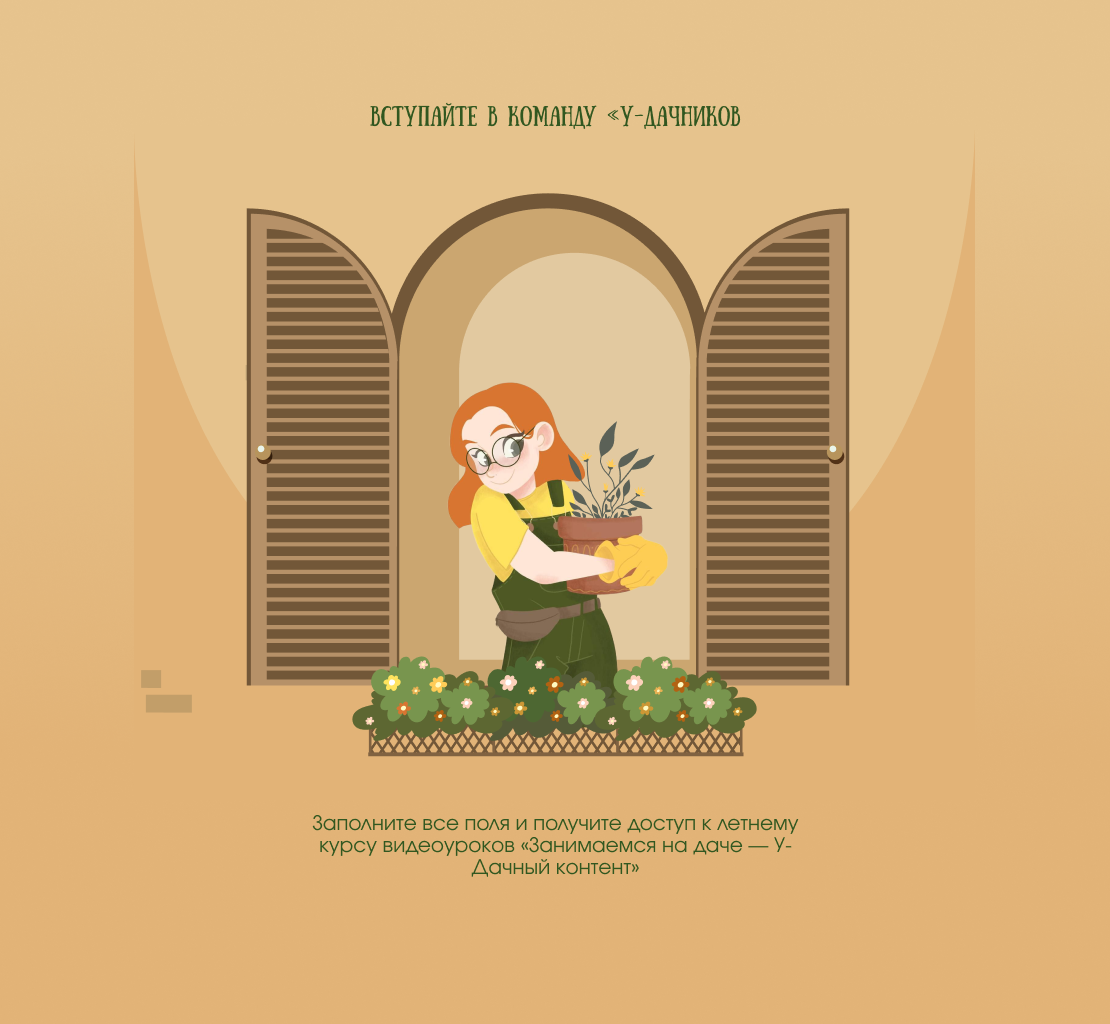
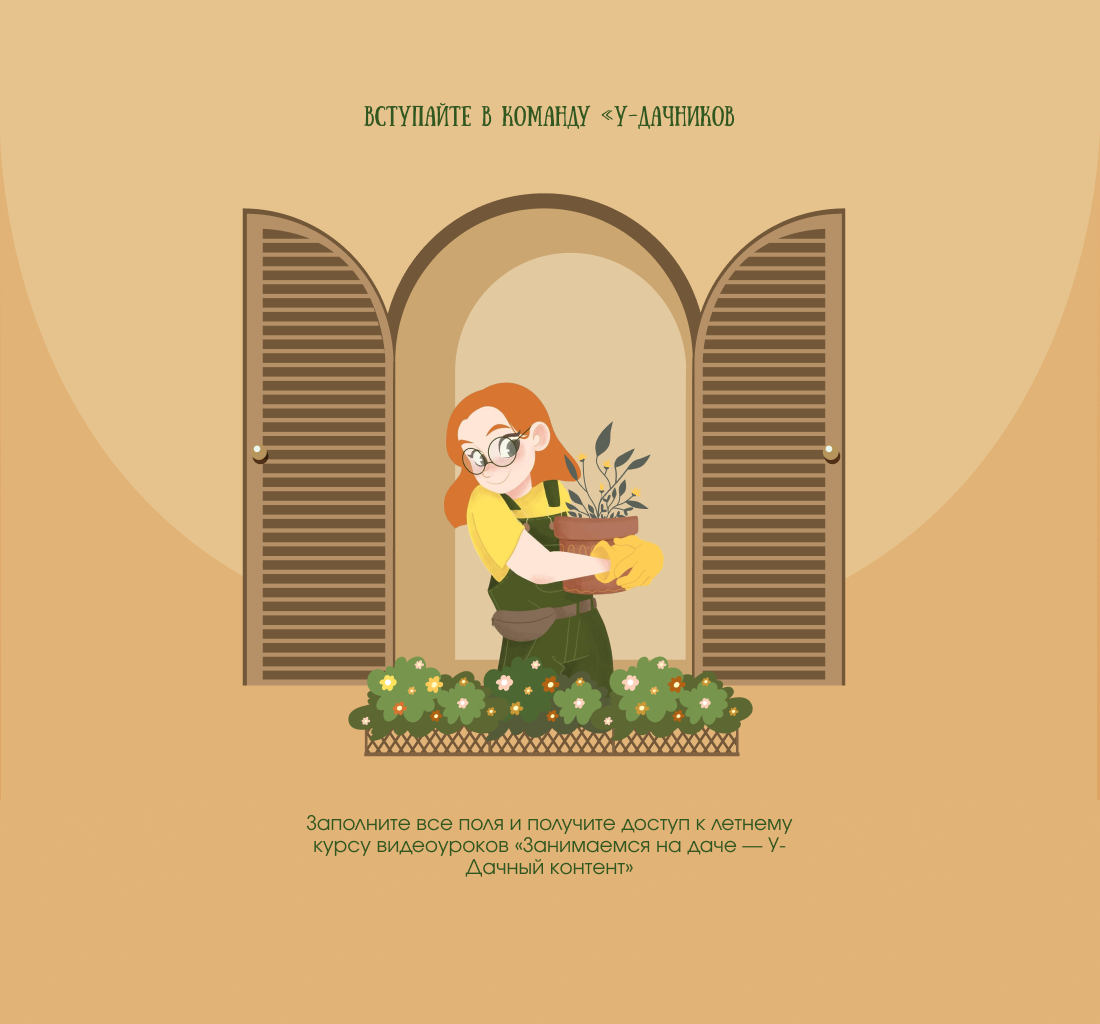
Minor UI Tweaks

diff --git a/src/components/AppAuthDialog.vue b/src/components/AppAuthDialog.vue
@@ -47,7 +47,7 @@ const diagnosis_cipher_options = [
 </script>
 
 <template>
-    <q-dialog ref="dialogRef" persistent maximized transition-show="slide-up" transition-hide="slide-down">
+    <q-dialog ref="dialogRef" persistent maximized>
         <q-card class="bg-uc_light_green reg_wrapper" v-if="showLogin">
             <q-bar style="height: 60px; background-color: transparent;">
                 <q-space />
@@ -113,8 +113,8 @@ const diagnosis_cipher_options = [
         <q-card class="login_wrapper" style="background-color: #EFDFBB;" v-if="!showLogin">
             <q-bar style="height: 60px; background-color: transparent;">
                 <q-space />
-                <q-btn dense flat round icon="close" v-close-popup size="lg" color=" uc_green' : 'white'"
-                    style="border: solid 2px #315720">
+                <q-btn dense flat round icon="close" v-close-popup size="lg" color="uc_green"
+                    style="border: solid 2px #315720;background-color: #EFDFBB;">
                     <q-tooltip class="bg-white text-primary">Закрыть</q-tooltip>
                 </q-btn>
             </q-bar>
@@ -196,8 +196,7 @@ const diagnosis_cipher_options = [
             </div>
         </q-card>
         <!-- Second dialog -->
-        <q-dialog v-model="restorePasswordDialog" persistent maximized transition-show="slide-down"
-            transition-hide="slide-down">
+        <q-dialog v-model="restorePasswordDialog" persistent maximized>
             <q-card class="fullscreen bg-uc_light_green">
                 <div class="fullscreen restorePassword_dialog flex flex-center">
 
@@ -269,7 +268,6 @@ const diagnosis_cipher_options = [
     background-size: 986px auto;
     background-position-x: right;
     background-position-y: bottom;
-    image-rendering: crisp-edges;
 }
 
 .signIn_bgVectorClouds {
@@ -281,6 +279,7 @@ const diagnosis_cipher_options = [
 
 .signIn_emptySpaceImg {
     background: url(../assets/images/authDialog/signIn_emptySpaceImg_desktop.webp) no-repeat;
+    background-color: #E2B377;
     background-size: auto auto;
     background-position-x: center; // (посмотреть подробнее из-за суб-пиксельного рендеринга)
     background-position-y: top;

diff --git a/src/css/quasar.variables.scss b/src/css/quasar.variables.scss
@@ -79,6 +79,12 @@ $uc_button_text: #A27D54;
 .bg-uc_fon {
     background: $uc_fon !important;
 }
+.text-uc_button_text {
+    color: $uc_button_text !important;
+}
+.bg-uc_button_text {
+    background: $uc_button_text !important;
+}
 
 // медиазапросы
 
